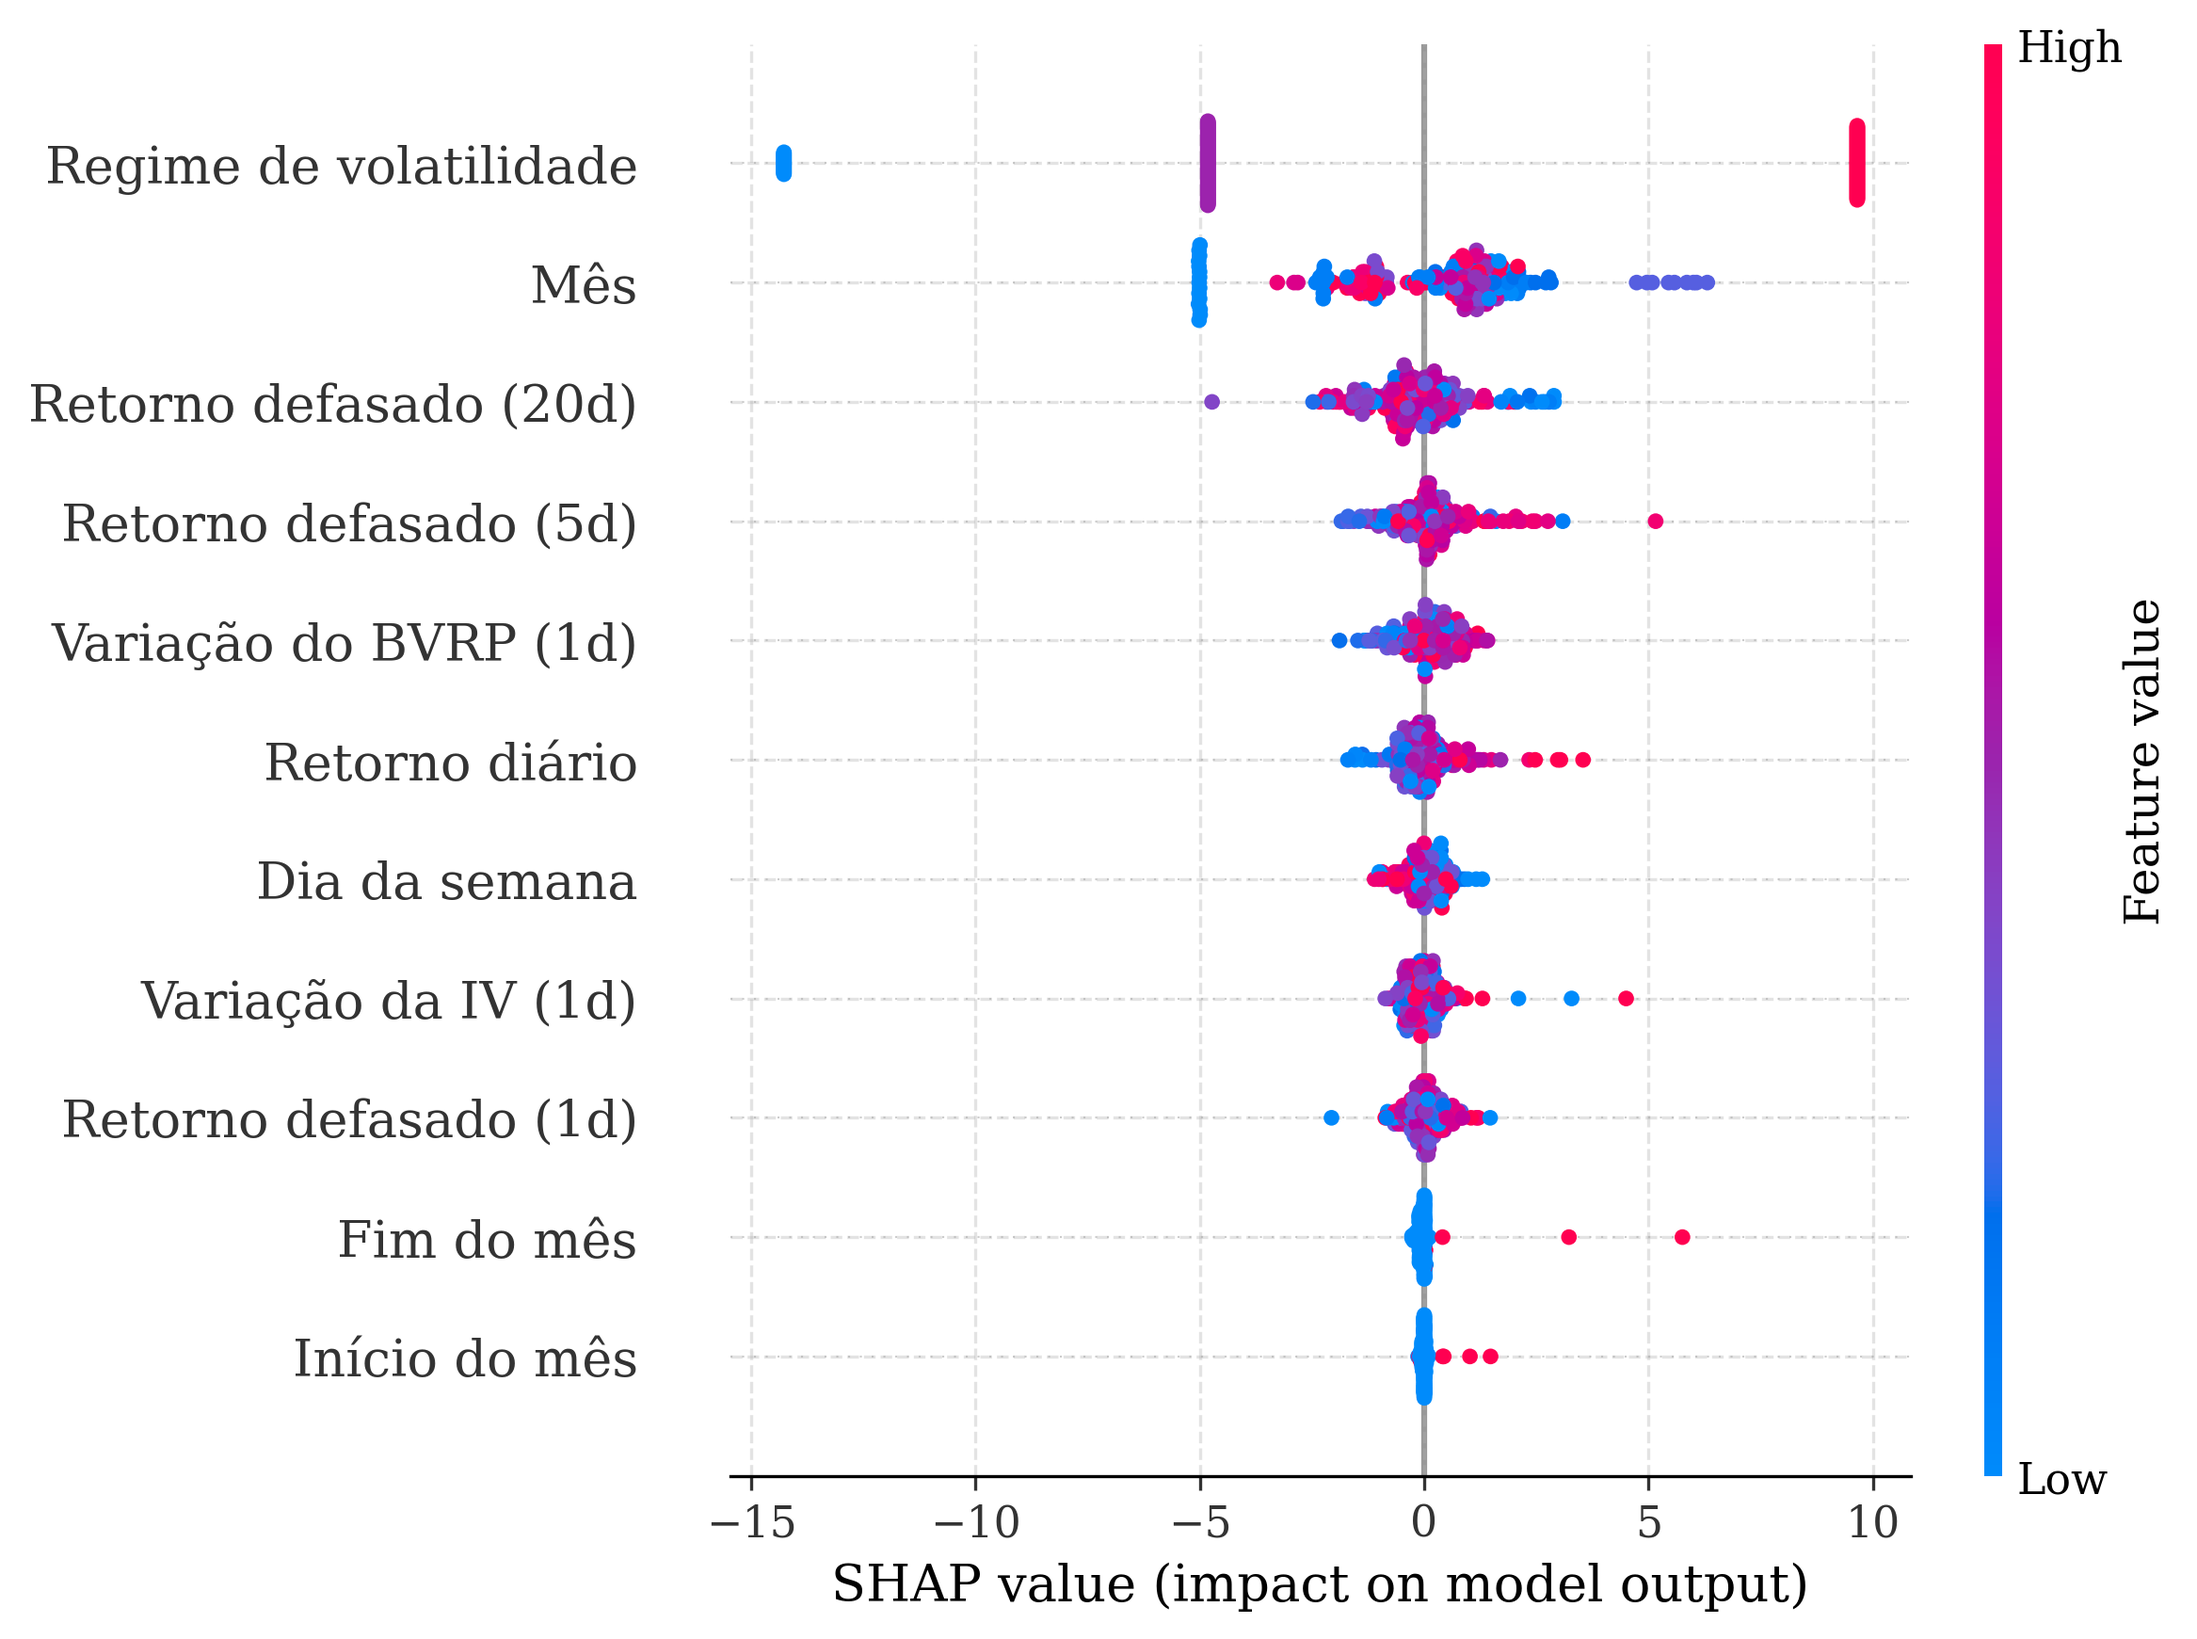
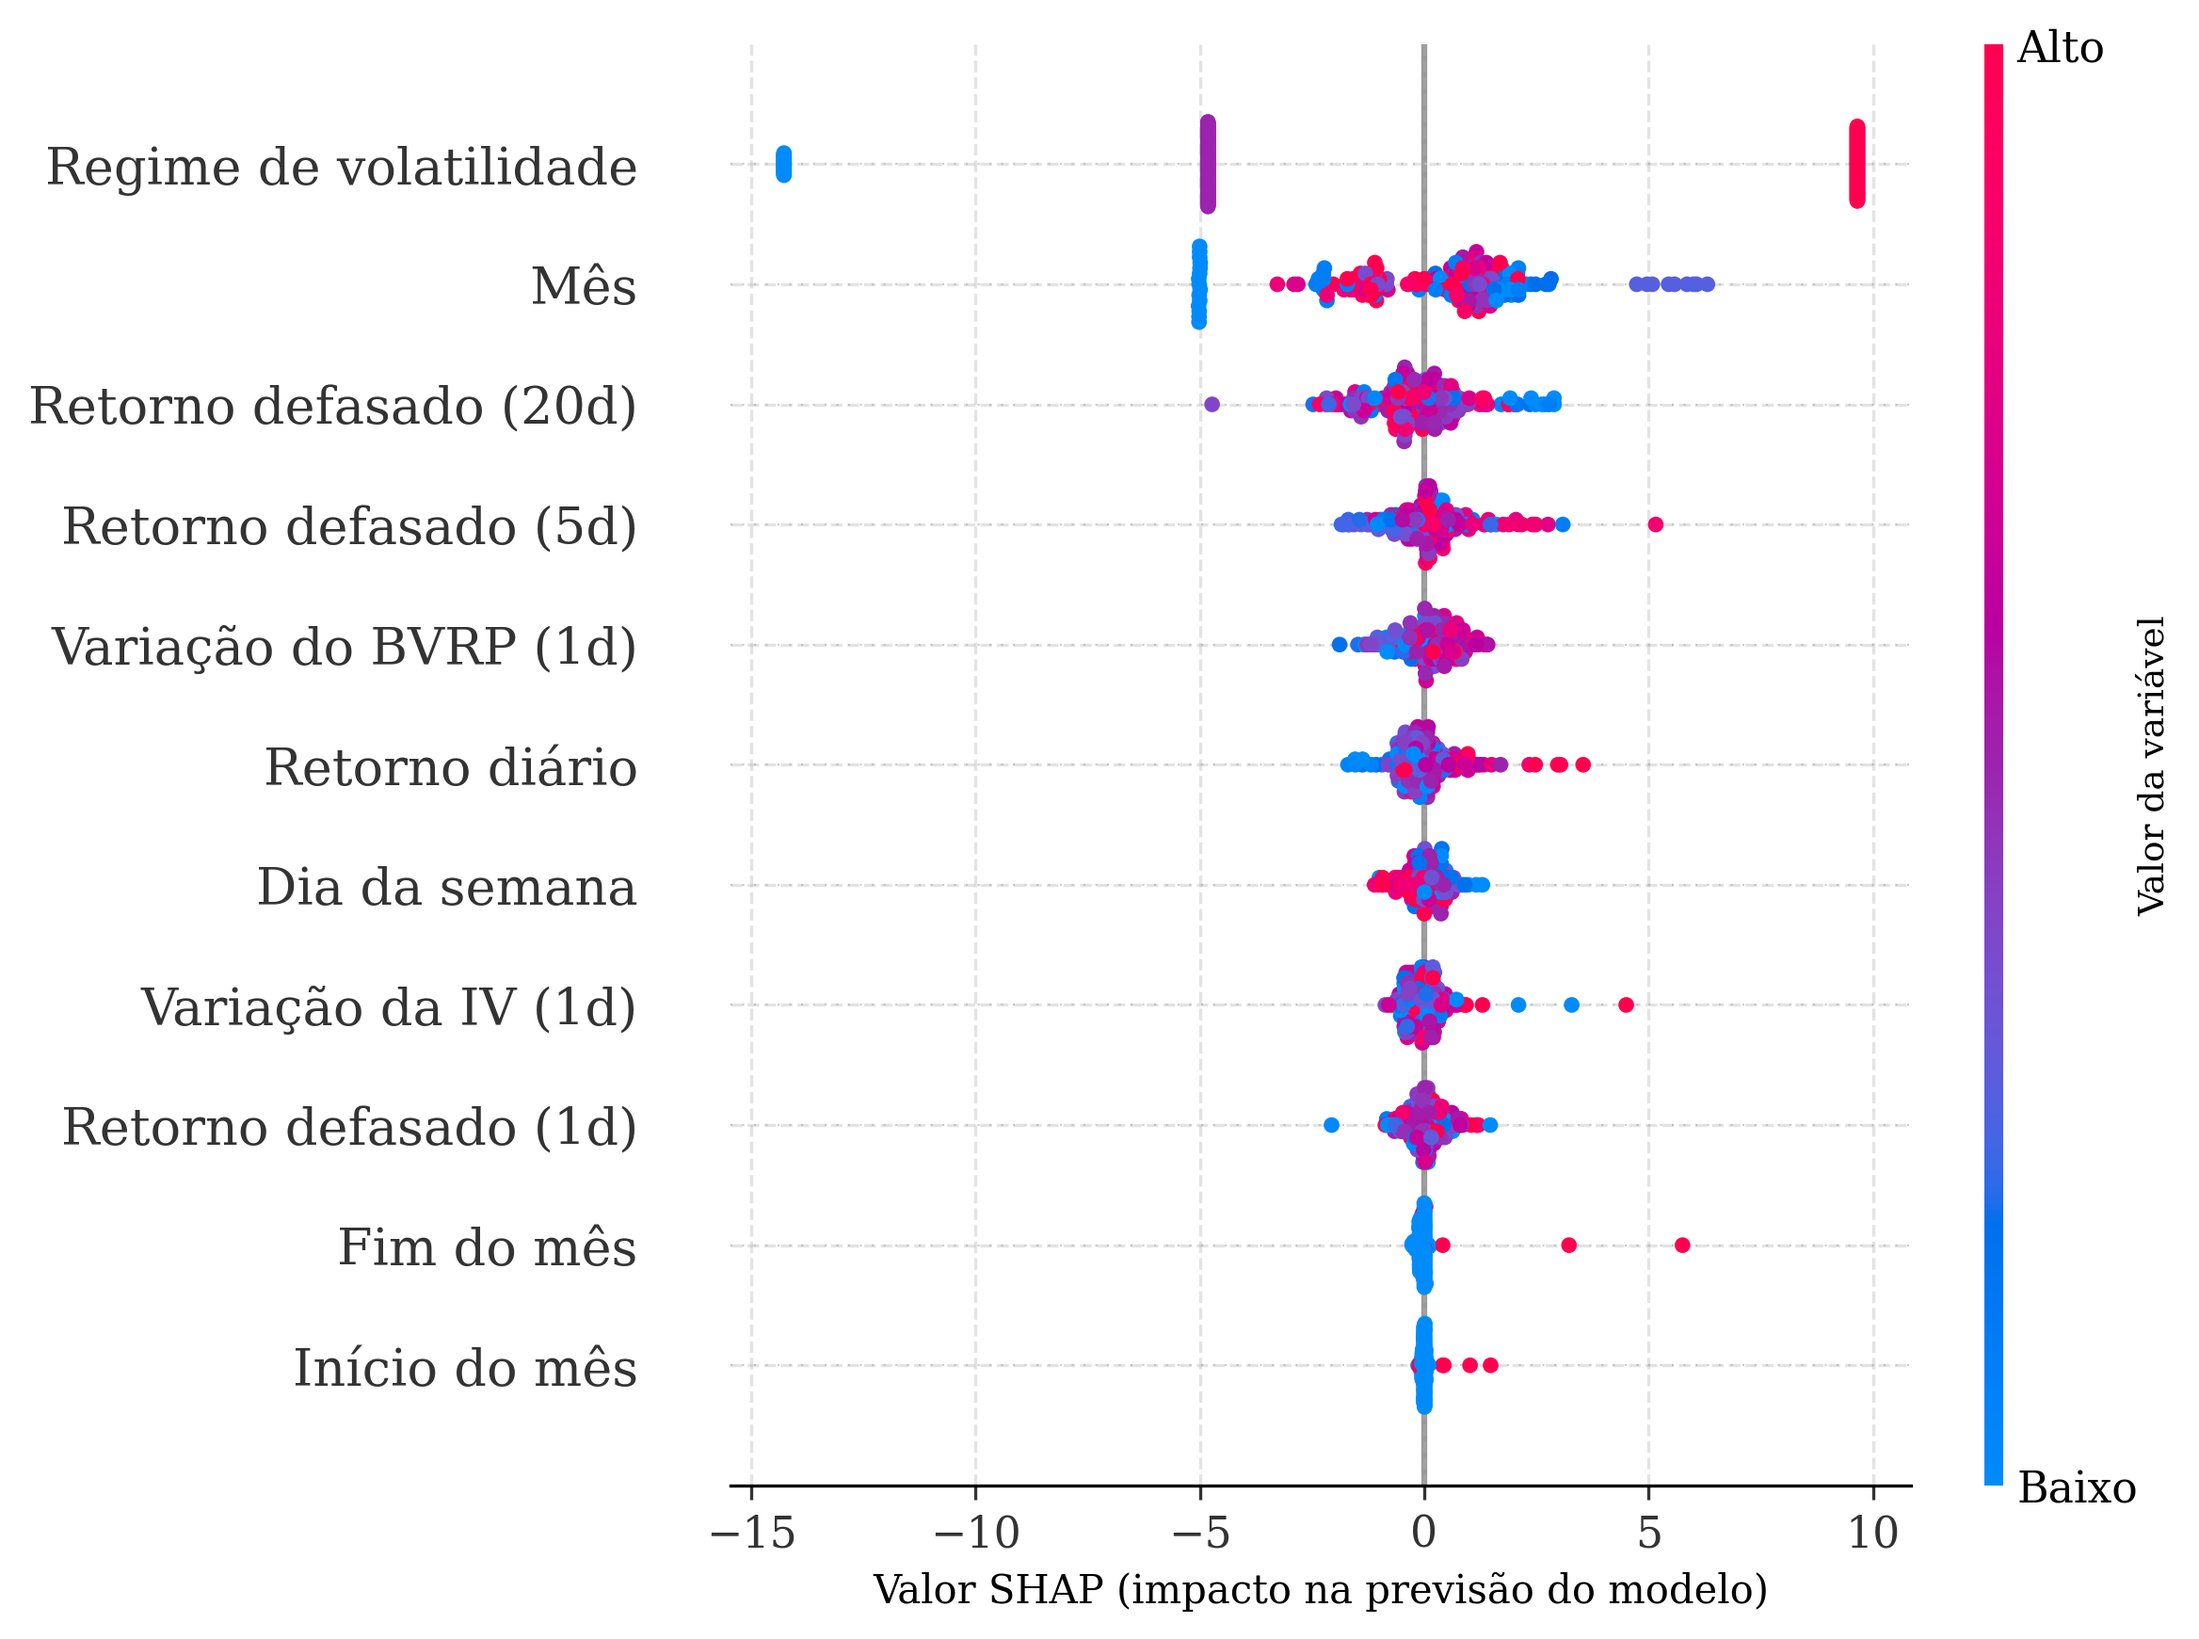
cap6: traduz rotulos das figuras SHAP (6.2 e 6.3) para portugues e corrige eixo cortado da 6.2

diff --git a/scripts/regenerate_cap8.py b/scripts/regenerate_cap8.py
@@ -296,6 +296,16 @@ shap.summary_plot(
     show=False, plot_type="dot",
     max_display=len(feat_labels),
 )
+# Traduz os rotulos hardcoded em ingles pelo shap.summary_plot
+_fig = plt.gcf()
+plt.gca().set_xlabel("Valor SHAP (impacto na previsão do modelo)", fontsize=10)
+# A colorbar e o ultimo eixo da figura no shap 0.52
+try:
+    _cb = _fig.axes[-1]
+    _cb.set_ylabel("Valor da variável", fontsize=9)
+    _cb.set_yticklabels(["Baixo", "Alto"])
+except Exception as _e:
+    print(f"  [aviso] nao foi possivel traduzir a colorbar do beeswarm: {_e}")
 plt.tight_layout()
 plt.savefig(str(OUT_FIGS / "fig_cap8_shap_beeswarm.png"), dpi=300, bbox_inches="tight")
 plt.close()
@@ -307,6 +317,8 @@ shap.summary_plot(
     show=False, plot_type="bar",
     max_display=len(feat_labels),
 )
+# O rotulo original em ingles e longo demais e sai cortado; troca por um curto
+plt.gca().set_xlabel("Impacto médio no modelo — média de |valor SHAP|", fontsize=10)
 plt.tight_layout()
 plt.savefig(str(OUT_FIGS / "fig_cap8_shap_bar.png"), dpi=300, bbox_inches="tight")
 plt.close()
